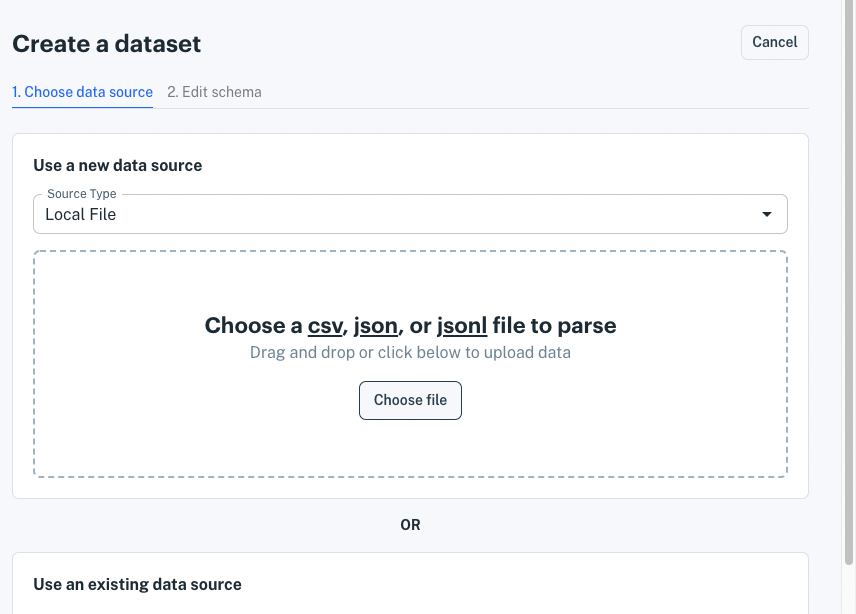
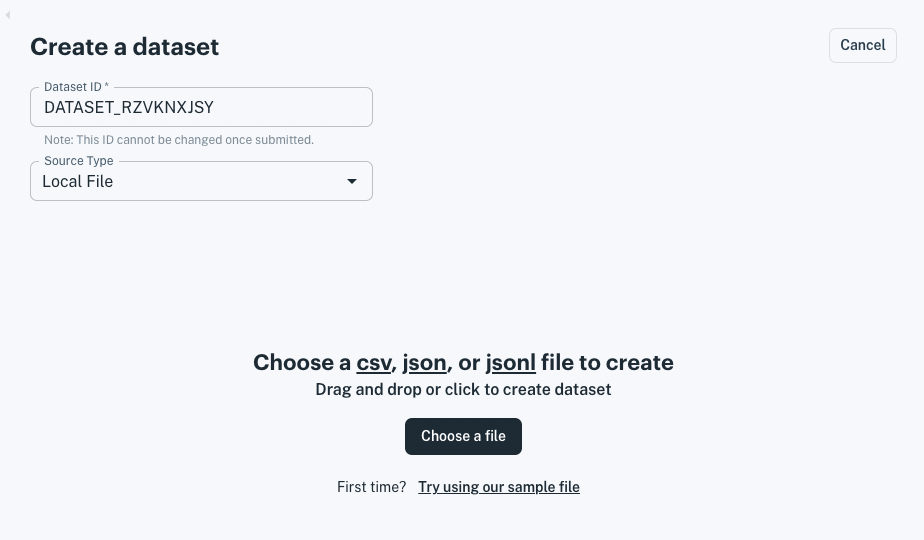
PFM-827 update Getting Started to 1 step dataset creation

diff --git a/source/getting-started/getting-started-with-an-example-dataset.md b/source/getting-started/getting-started-with-an-example-dataset.md
@@ -2,7 +2,7 @@
 
 > **Note:** IEX Cloud Apperate is available exclusively to select Early Access Program participants If you would like to participate in the Early Access Program or Beta, please email us at `product@iexcloud.io`.
 
-Here we'll set up a workspace, give you a quick tour of Apperate, and then go through an example of delivering data for apps to use.
+Here we'll set up a workspace and then make data available for apps to use in seconds.
 
 **Important:** If you don't already have an IEX Cloud account, create one [here](https://iexcloud.io/cloud-login#/register).
 
@@ -13,13 +13,13 @@ A *workspace* is your unique domain for writing data and querying it, and delive
 **Workspace URL format:**
 
 ```
-https://WORKSPACE.iex.cloud/v1/...
+https://WORKSPACE.iex.cloud/...
 ```
 
 **Example Workspace URL:**
 
 ```
-https://mycompany.iex.cloud/v1/...
+https://mycompany.iex.cloud/...
 ```
 
 In the URL above, the workspace name `mycompany` is used as a subdomain of `iex.cloud`. 
@@ -50,72 +50,63 @@ Here's how to create your workspace:
 
 Your workspace is created and ready for delivering data to your apps!
 
-## Example: Delivering Data
+## Delivering Data
 
-Here you will load IEX Cloud's sample data file and then access the loaded data from a REST endpoint.
+Here you will load IEX Cloud's sample data file and then access the loaded data from an auto-generated REST endpoint.
 
-1. If you're not already in the **Create a dataset** page, click **Create a dataset** at the top right of the console. The **Create a dataset** page appears. The image below has **Use IEX Cloud's sample file** highlighted for clicking in the next step.
+1. If you're not already in the **Create a dataset** page, click **Create a dataset** at the top right of the console. The **Create a dataset** page appears. The image below highlights the sample file link that you will click in the next step.
 
-    ![](./getting-started-with-an-example-dataset/use-sample-file.png)
+    ![](./getting-started-with-an-example-dataset/try-using-sample-file.png)
 
-1.  In the **Create a dataset** page, load the sample data file by clicking **Use IEX Cloud's sample file** in the bottom right. The file uploads and the **Edit schema** interface appears.
+    Optionally, enter a more meaninfgul the dataset ID.
 
-    ![](./getting-started-with-an-example-dataset//sample-aapl-dataset-edit-schema.png)
+1.  In the **Create a dataset** page, keep the source type set to **Local file** and load the sample data file by clicking **Try using our sample file**. Apperate loads the data into a new dataset, generates a REST endpoint for the dataset, and shows the dataset overview in the console.
 
-    **Dataset ID** - Name your dataset by giving it a unique ID. On data ingestion, Apperate makes a best effort to name your dataset, using the data source name (e.g., file name). If a dataset exists with that name, Apperate suggests a suffix to make the dataset ID unique. 
+    ![](./getting-started-with-an-example-dataset/sample-dataset-overview.png)
 
-    > **Important:** The `_system` prefix (case-insensitive) is reserved for Apperate system tables and columns. Do not start any dataset or dataset property names with `_system`.
+    Notice these fields:
 
-    **Properties (table)** The product makes a best effort to derive data property names using the column names the dataset provides and to derive data types from the data values. Lastly, Apperate attempted to determine a Unique Index composed of a primary index key, secondary index key (optional), and date index key.
-
-    In this case, Apperate correctly set *symbol* as the primary index key and *date* as the date index key. The property types were detected correctly too. We could set a secondary index key too, but we will decline.
-
-    There are more options and content below the *Properties* table.
-
-    ![edit-schema-bottom-sections.png](./getting-started-with-an-example-dataset/edit-schema-bottom-sections.png)
-
-    **Sample API Call** - Shows a URL for getting data from the dataset using the current Unique Index.
-
-    **Unique Index Example** - Illustrates the current Unique Index, composed of the Primary index, Secondary index (optional), and Date index.
-
-    **Opt in to IEX Cloud's Metadata Graph** - Provides the opportunity to map a property to IEX Cloud's metadata data graph of [financial identifiers](../reference/financial-identifiers.md). This allows you to enrich your dataset by joining it to IEX Cloud core equities data or any other dataset that is also opted in. Furthermore, you can ingest data into and query for data in this dataset using IEX Cloud's supported financial identifiers.
-
-    > **See Also:** You can learn more about dataset schemas by reading [Understanding Datasets](../managing-your-data/understanding-datasets.md).
-
-    IEX Cloud correctly identified the *symbol* property as containing financial identifiers and therefore opted the dataset in to IEX Cloud's metadata graph.
+    - **Example request** is a REST endpoint URL for getting the dataset's last row.
+    - **Rows** shows the dataset's row count is 1,257.
+    - **Detected symbol** is the data property designated as the primary index. Apperate makes a best effort to determine a primary index. 
     
-    Since this schema defines our dataset the way we want, click **Create Dataset Now**. The product builds and stores your dataset and your dataset overview appears.
+    > **Note:** you can change the primary index and other parts of the dataset schema using the schema editor available by clicking **Edit schema**.
 
-    ![](./getting-started-with-an-example-dataset/sample-appl-dataset-overview.png)
+    The **HTTP request** panel shows the dataset's last row as a JSON object.
 
-    **Milestone alert!** You just loaded data, defined the data's types and its unique time series compatible index, and generated its auto-documented API! Let's access the data, next.
+    ```json
+    [
+        {
+            "close": 148.64,
+            "date": "2021-10-25",
+            "high": 149.37,
+            "low": 147.6211,
+            "open": 148.68,
+            "symbol": "AAPL",
+            "volume": 50720556
+        }
+    ]
+    ```
 
-1.  In your dataset overview, get your dataset's last record by clicking the **Example Request** URL.
+1. Get your dataset's last row by clicking the **Example request** URL.
 
-    ![](./getting-started-with-an-example-dataset/example-request-highlighted.png)
+    ![](./getting-started-with-an-example-dataset/sample-dataset-example-request.png)
 
-    The URL opens in a new browser tab and the REST endpoint JSON response appears.
+    The URL opens in a new browser tab and the response appears as a JSON object.
 
-    ![](./getting-started-with-an-example-dataset/sample-appl-execute-query.png)
+    ```json
+    [{"close":148.64,"date":"2021-10-25","high":149.37,"low":147.6211,"open":148.68,"symbol":"AAPL","volume":50720556}]
+    ```
 
-You just loaded data into the IEX Cloud Apperate and retrieved it using an auto-generated RESTful API! It's just that easy to get data to your apps!!
-
-**Bonus step - visit your API docs** by clicking **Open API Docs**
-in your dataset's overview page. Your API docs structure appears.
-
-![](./getting-started-with-an-example-dataset/sample-appl-dataset-api-docs.png)
-
-> **Tip:** You can document your dataset properties in the schema editor. To edit your dataset schema, click **Edit Schema** in the dataset's overview page.
-
-Congratulations on making data available using a dataset!
+You just loaded data into IEX Cloud Apperate and retrieved it using an auto-generated REST API! It's just that easy to make data available to your apps!!
 
 ## What's Next
 
-Now that you are familiar with creating a dataset from the sample data, you can create datasets using your own data. See [Migrating and Importing Data](../migrating-and-importing-data.md) for details. 
+After creating a dataset, you can edit its schema to meet your needs. For more information on working with dataset schemas, please see [Understanding Datasets](../managing-your-data/understanding-datasets.md).
 
-Want to learn more about creating and managing datasets? Read [Understanding Datasets](../managing-your-data/understanding-datasets.md).
+Here you loaded data from a file but you can load data from other sources, including URLs and AWS S3 buckets. To learn more about using other sources and scheduling automated data ingestion, check out [Migrating and Importing Data](../migrating-and-importing-data.md).
 
-Otherwise, learn how to write a record to Apperate, just as you would write from an application, and then fetch that record. See [Writing and Fetching a Record](./writing-and-fetching-a-record.md)
+Otherwise, learn how to write a record to a dataset as you would write from an application, and then fetch that record. [Writing and Fetching a Record](./writing-and-fetching-a-record.md) shows you how.
 
 ---
 [Go to Docs Home](https://github.com/iexcloud/docs/blob/main/README.md)
